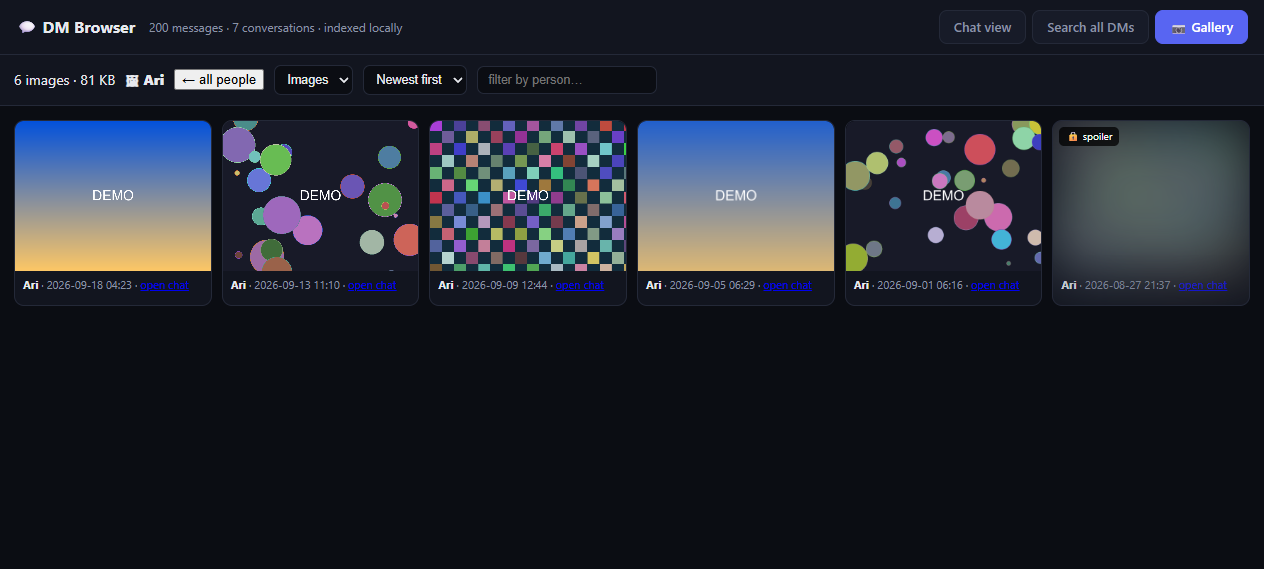
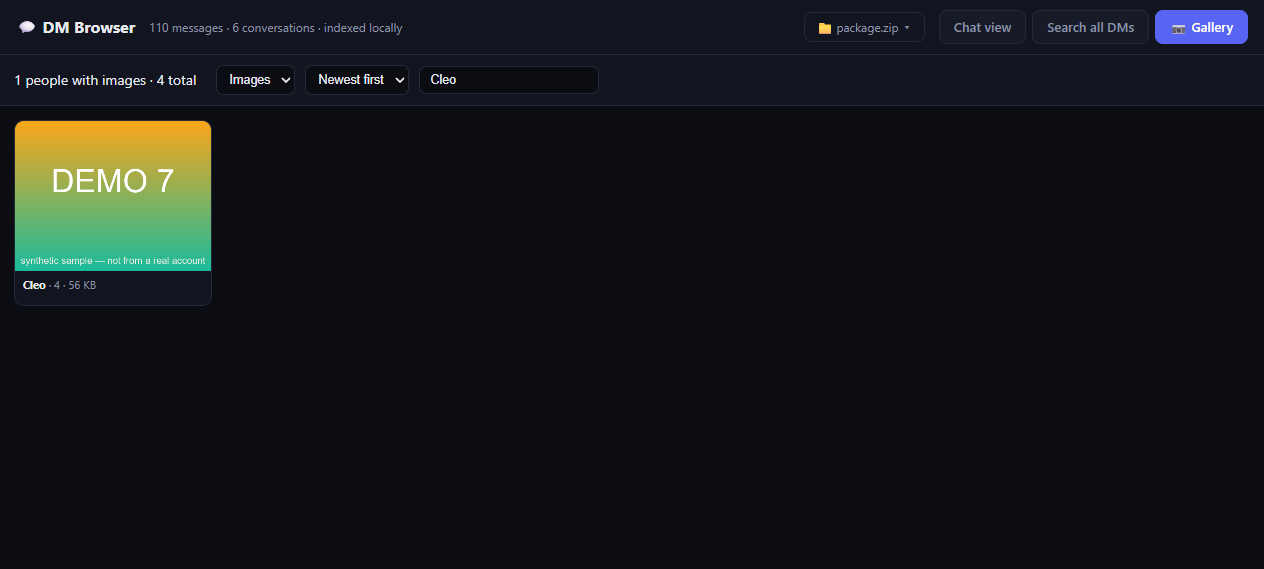
docs: fresh screenshot set captured from the built-in demo (zero PII)
- setup, chat (one-sided banner + demo bubbles), search (FTS hits),
  gallery per-person, spoiler blur, 📁 switch-package menu
- all shot against a sandbox running ONLY demo/package.zip
- vision-inspected each image + byte/metadata scan: no personal
  names, usernames, paths, or PNG text chunks

Changed region(s): [[0.0, 0.2091, 1.0, 0.5378], [0.0, 0.0896, 0.4628, 0.1793], [0.6479, 0.0299, 0.7097, 0.0598]]

diff --git a/README.md b/README.md
@@ -34,9 +34,9 @@ Works on Windows, macOS, Linux. Requires **Python 3.8+** (nothing else to instal
 ![spoiler](docs/screenshots/spoiler.png)
 
 ### Demo mode — one click, zero data required
-![demo](docs/screenshots/demo_mode.png)
+![setup](docs/screenshots/setup.png)
 
-### First run — pick your package right in the browser (📁 menu re-points or resets anytime)
+### Switch packages anytime — 📁 menu shows what's loaded, re-points, runs the demo, or resets
 ![picker](docs/screenshots/package_menu.png)
 
 *(All screenshots use a synthetic demo package — fake users, generated images.)*
